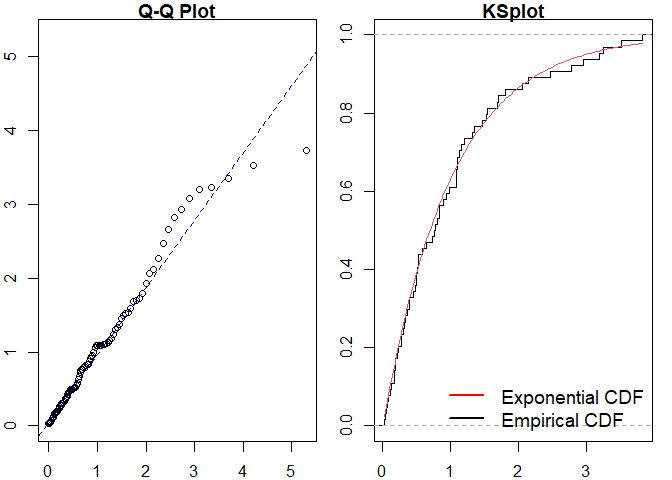
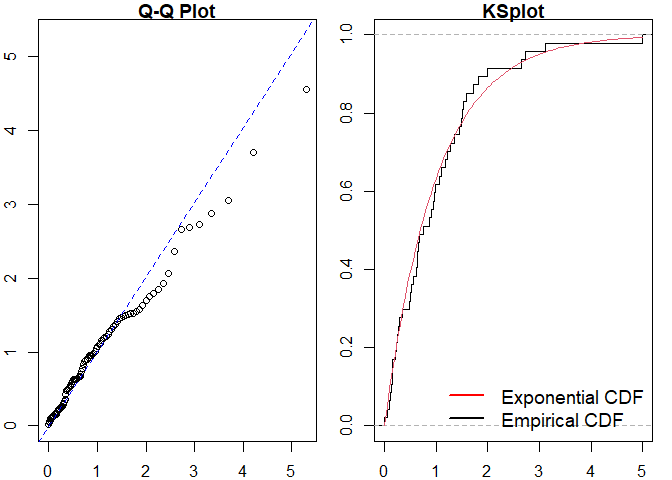
update to add cran release

diff --git a/README.md b/README.md
@@ -7,6 +7,8 @@
 
 [![R build
 status](https://github.com/OwenWard/ppdiag/workflows/R-CMD-check/badge.svg)](https://github.com/OwenWard/ppdiag/actions)
+[![CRAN
+status](https://www.r-pkg.org/badges/version/ppdiag)](https://CRAN.R-project.org/package=ppdiag)
 [![Lifecycle:
 stable](https://img.shields.io/badge/lifecycle-stable-brightgreen.svg)](https://lifecycle.r-lib.org/articles/stages.html)
 [![Codecov test
@@ -25,12 +27,14 @@ These currently include:
 
 # Installation
 
-<!-- You can install the released version of ppdiag from [CRAN](https://CRAN.R-project.org) with: -->
-<!-- ``` r -->
-<!-- install.packages("ppdiag") -->
-<!-- ``` -->
+You can install the released version of ppdiag from
+[CRAN](https://CRAN.R-project.org) with:
 
-The current version of this package is available from
+``` r
+install.packages("ppdiag")
+```
+
+The current development version of this package is available from
 [GitHub](https://github.com/OwenWard/ppdiag) with:
 
 ``` r
@@ -50,17 +54,14 @@ library(ppdiag)
 hp_obj <- pp_hp(lambda0 = 0.2, alpha = 0.35, beta = 0.8)
 sim_hp <- pp_simulate(hp_obj, end = 200)
 sim_hp
-#>  [1]   4.812834   6.359553  18.592838  24.924398  27.477472  39.069081
-#>  [7]  45.447185  48.877789  49.251243  51.583534  52.030700  55.323267
-#> [13]  56.374593  61.075780  61.133379  69.444170  70.426176  78.372408
-#> [19]  80.372094  80.475431  85.501265  88.972648  90.084763  91.974217
-#> [25]  93.779371  93.814669  94.082367  94.257954  94.622148 104.444724
-#> [31] 105.122596 105.259238 105.424769 105.666571 105.938356 106.483103
-#> [37] 106.600113 106.787423 107.352824 108.720862 108.803059 110.341614
-#> [43] 113.346552 116.741642 117.752418 118.790844 118.848347 133.140741
-#> [49] 138.741287 139.056061 139.531597 140.027394 140.594697 143.330178
-#> [55] 158.451919 158.661755 159.933741 167.286287 181.247567 184.667738
-#> [61] 190.190180 190.476203 190.843110 192.188077
+#>  [1]   7.581703   7.998168   8.614021   8.941138  10.648613  15.364071
+#>  [7]  17.800640  25.491057  28.127978  32.123344  36.650980  40.393909
+#> [13]  46.739837  47.395302  50.294564  62.837118  65.235044  66.340397
+#> [19]  71.383948  77.309497  91.678156  91.905564  95.553557 102.090414
+#> [25] 108.745371 120.906119 122.660710 123.562649 126.055677 149.457071
+#> [31] 156.214770 156.991597 162.095315 162.099438 167.096198 167.398154
+#> [37] 171.239529 174.824605 174.964051 175.205379 175.454114 175.808449
+#> [43] 177.648504 179.547997 187.674615 196.690195 198.482319
 ```
 
 We can readily evaluate the fit of a homogeneous Poisson process to this
@@ -70,20 +71,17 @@ data.
 est_hpp <- fithpp(sim_hp)
 est_hpp
 #> $lambda
-#> [1] 0.3330071
+#> [1] 0.2367969
 #> 
 #> $events
-#>  [1]   4.812834   6.359553  18.592838  24.924398  27.477472  39.069081
-#>  [7]  45.447185  48.877789  49.251243  51.583534  52.030700  55.323267
-#> [13]  56.374593  61.075780  61.133379  69.444170  70.426176  78.372408
-#> [19]  80.372094  80.475431  85.501265  88.972648  90.084763  91.974217
-#> [25]  93.779371  93.814669  94.082367  94.257954  94.622148 104.444724
-#> [31] 105.122596 105.259238 105.424769 105.666571 105.938356 106.483103
-#> [37] 106.600113 106.787423 107.352824 108.720862 108.803059 110.341614
-#> [43] 113.346552 116.741642 117.752418 118.790844 118.848347 133.140741
-#> [49] 138.741287 139.056061 139.531597 140.027394 140.594697 143.330178
-#> [55] 158.451919 158.661755 159.933741 167.286287 181.247567 184.667738
-#> [61] 190.190180 190.476203 190.843110 192.188077
+#>  [1]   7.581703   7.998168   8.614021   8.941138  10.648613  15.364071
+#>  [7]  17.800640  25.491057  28.127978  32.123344  36.650980  40.393909
+#> [13]  46.739837  47.395302  50.294564  62.837118  65.235044  66.340397
+#> [19]  71.383948  77.309497  91.678156  91.905564  95.553557 102.090414
+#> [25] 108.745371 120.906119 122.660710 123.562649 126.055677 149.457071
+#> [31] 156.214770 156.991597 162.095315 162.099438 167.096198 167.398154
+#> [37] 171.239529 174.824605 174.964051 175.205379 175.454114 175.808449
+#> [43] 177.648504 179.547997 187.674615 196.690195 198.482319
 #> 
 #> attr(,"class")
 #> [1] "hpp"
@@ -95,12 +93,12 @@ pp_diag(est_hpp, events = sim_hp)
 
     #> 
     #> Raw residual: 0
-    #> Pearson residual: 0
+    #> Pearson residual: 1.421085e-14
     #> 
     #>  One-sample Kolmogorov-Smirnov test
     #> 
     #> data:  r
-    #> D = 0.21848, p-value = 0.003664
+    #> D = 0.097578, p-value = 0.7253
     #> alternative hypothesis: two-sided
 
 ``` r
@@ -110,13 +108,13 @@ pp_diag(hp_est, events = sim_hp)
 
 <img src="man/figures/README-fit_hp-1.png" width="75%" />
 
-    #> Raw residual: 2.249111e-05
-    #> Pearson residual: -0.2604292
+    #> Raw residual: -0.008636336
+    #> Pearson residual: -0.07027012
     #> 
     #>  One-sample Kolmogorov-Smirnov test
     #> 
     #> data:  r
-    #> D = 0.05335, p-value = 0.9888
+    #> D = 0.086768, p-value = 0.8409
     #> alternative hypothesis: two-sided
 
 ## MMHP Example
@@ -175,12 +173,12 @@ pp_diag(est_hpp,mmhp_events$events)
 
     #> 
     #> Raw residual: -1
-    #> Pearson residual: -1.620493
+    #> Pearson residual: -1.653811
     #> 
     #>  One-sample Kolmogorov-Smirnov test
     #> 
     #> data:  r
-    #> D = 0.23966, p-value = 0.005185
+    #> D = 0.21174, p-value = 0.01909
     #> alternative hypothesis: two-sided
 
 Similarly for a Hawkes process.
@@ -192,13 +190,13 @@ pp_diag(est_hp,mmhp_events$events)
 
 <img src="man/figures/README-fit_hp_to_mmhp-1.png" width="75%" />
 
-    #> Raw residual: -0.6673263
-    #> Pearson residual: -1.781394
+    #> Raw residual: -0.4721489
+    #> Pearson residual: -1.887457
     #> 
     #>  One-sample Kolmogorov-Smirnov test
     #> 
     #> data:  r
-    #> D = 0.095957, p-value = 0.7105
+    #> D = 0.083692, p-value = 0.8461
     #> alternative hypothesis: two-sided
 
 We can then compare to the true point process model.
@@ -209,13 +207,13 @@ pp_diag(mmhp_obj, mmhp_events$events)
 
 <img src="man/figures/README-fit_mmhp-1.png" width="75%" />
 
-    #> Raw residual: 13.94491
-    #> Pearson residual: 22.13206
+    #> Raw residual: 6.08402
+    #> Pearson residual: 7.619131
     #> 
     #>  One-sample Kolmogorov-Smirnov test
     #> 
     #> data:  r
-    #> D = 0.11593, p-value = 0.4771
+    #> D = 0.11113, p-value = 0.5309
     #> alternative hypothesis: two-sided
 
 # Getting help and contributing
